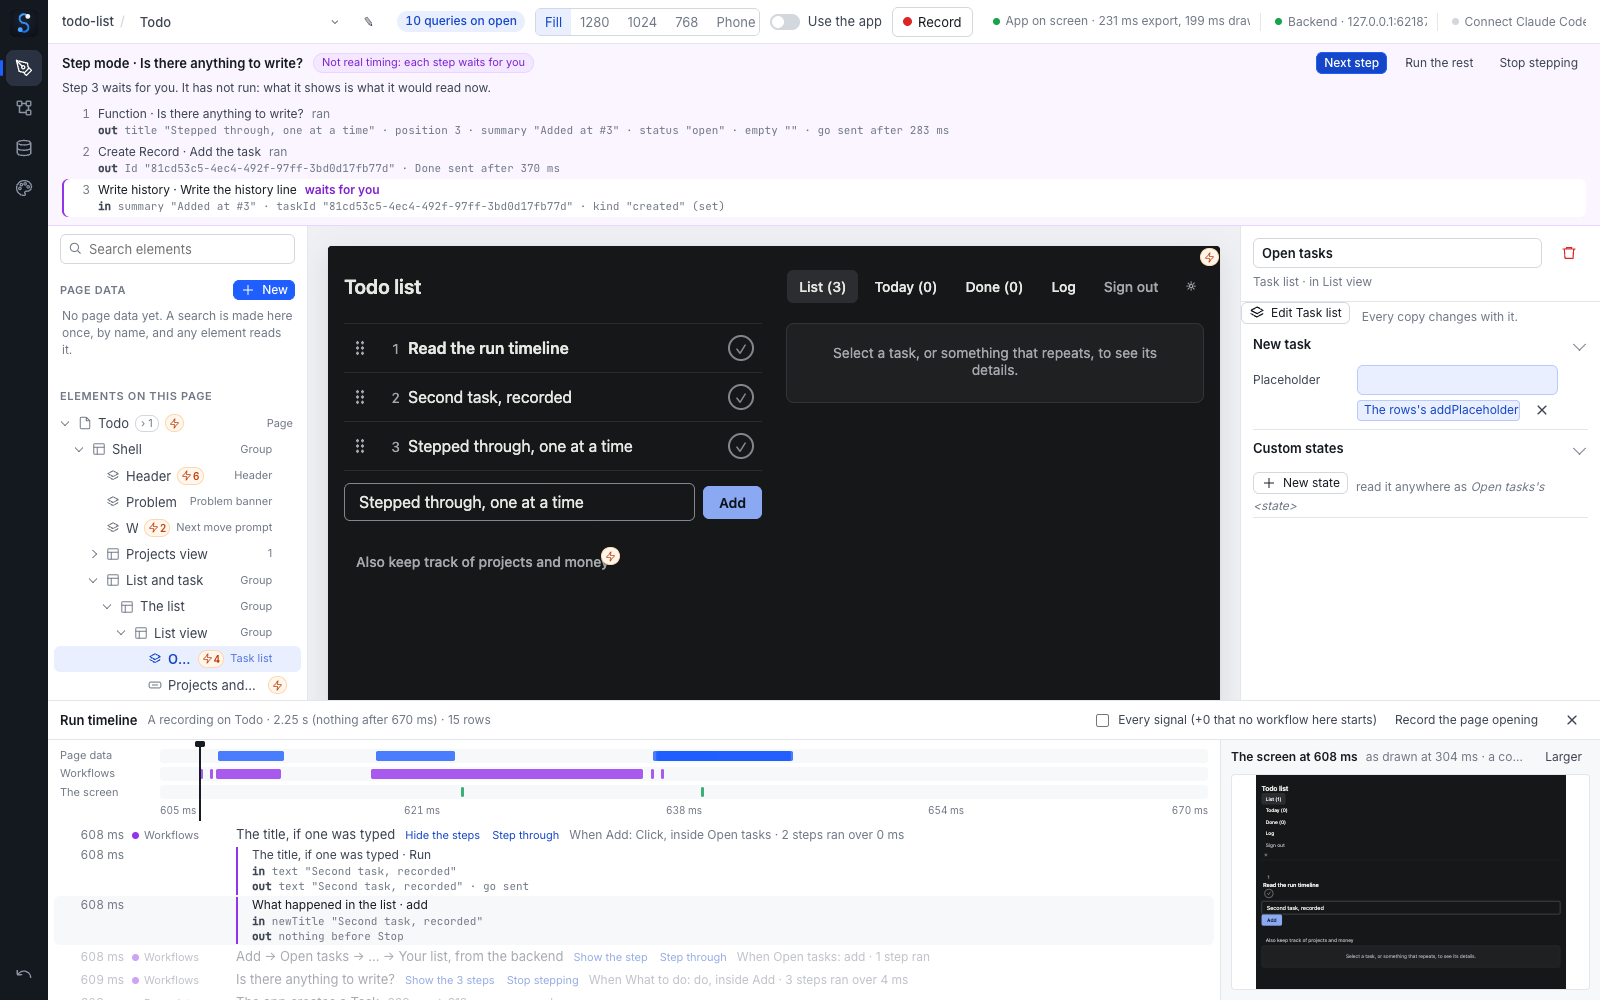
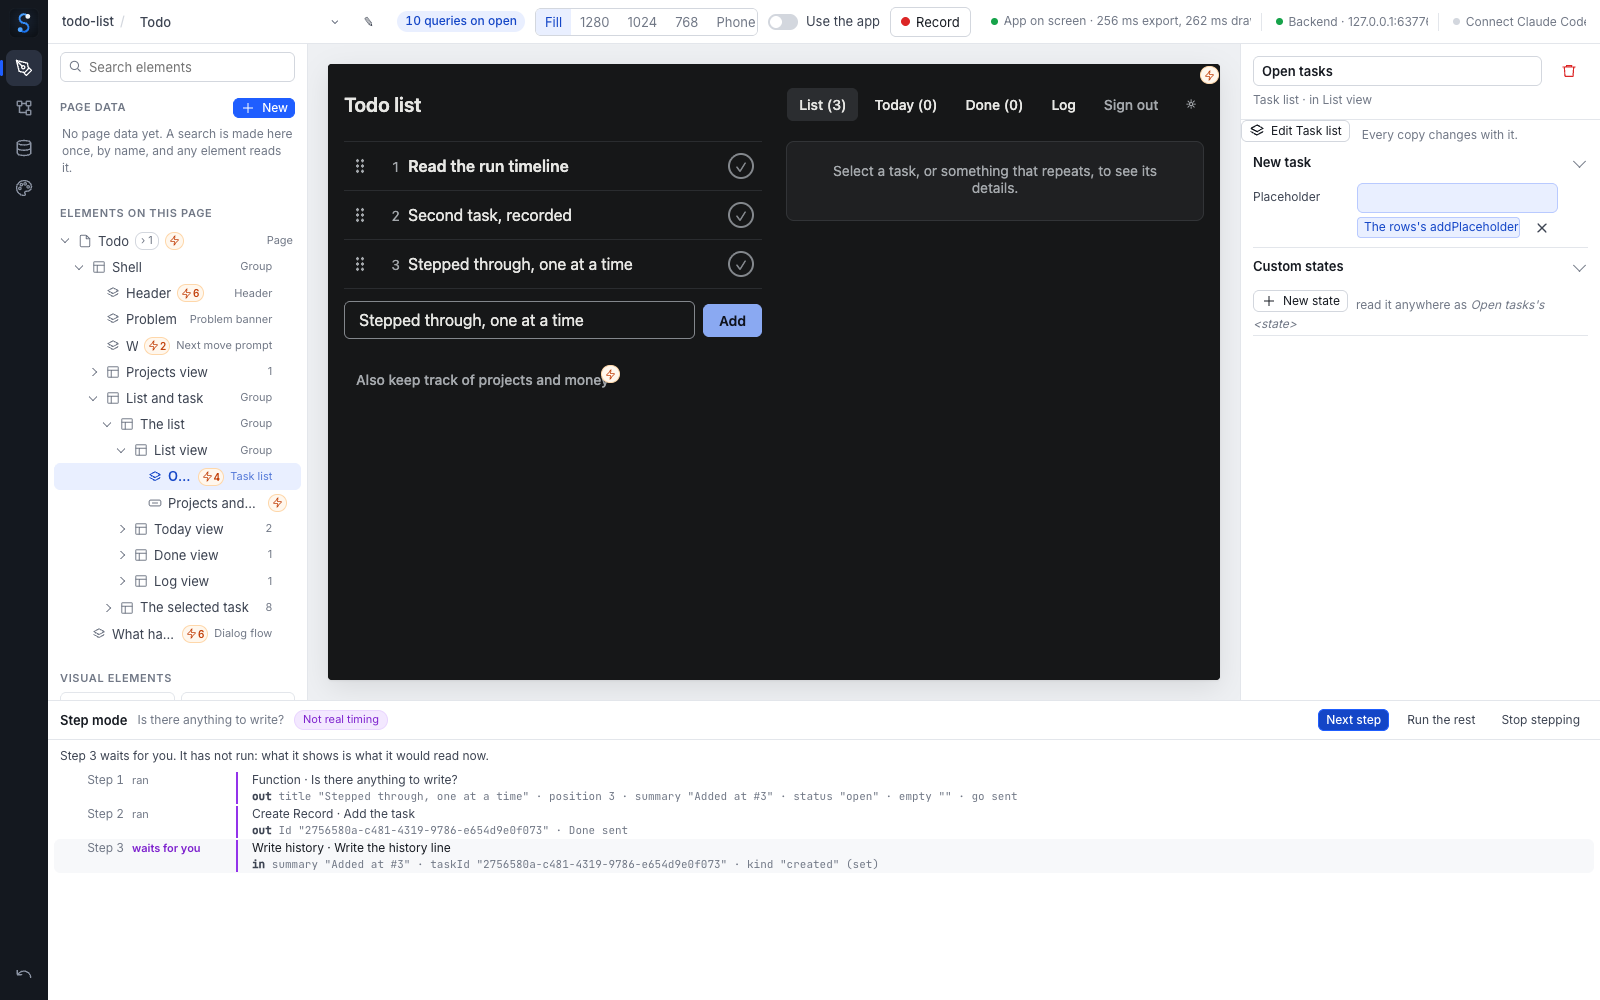
STU-033: step mode lives in the timeline's drawer, not in a bar over the tabs
Richard: "quite busy … taking space away from the bottom part, or they could be merged?" The bar was a
second copy of the drawer's step lines and pushed the app down. While step mode is on, the drawer's header
holds the card, "Not real timing" and the buttons, and its rows are the steps, drawn as a run's steps are.
Stop stepping gives the drawer back to the recording; Record turns step mode off.

check:timeline 45/45, check:editor 170/170, check:app 34/34.

diff --git a/editor/studio.html b/editor/studio.html
@@ -172,21 +172,16 @@
   /* larger: over the tab, above the drawer, the drawer still there to scrub */
   main { position: relative; }
   .tlscreen.big { position: absolute; left: 0; right: 0; top: 0; bottom: 300px; width: auto; z-index: 30; border: 0; border-bottom: 1px solid var(--line); box-shadow: var(--shadow); }
-  /* ---- STU-033: step mode, a bar over every tab while one card pauses before each step ---- */
-  #stepper { flex: none; background: #faf5ff; border-bottom: 1px solid #e9d5ff; padding: 8px 14px; display: grid; gap: 6px; max-height: 240px; overflow: auto; }
-  #stepper[hidden] { display: none; }
-  #stepper .sthead { display: flex; align-items: center; gap: 10px; flex-wrap: wrap; }
-  #stepper .sthead h4 { margin: 0; font-size: 13px; font-weight: 600; }
-  #stepper .sthead .tag { font-size: 11px; color: #7e22ce; background: #f3e8ff; border: 1px solid #e9d5ff; border-radius: 10px; padding: 1px 8px; white-space: nowrap; }
-  #stepper .sthead .grow { flex: 1; }
-  #stepper .stnote { color: var(--ink-2); font-size: 12px; }
-  #stepper .ststep { display: grid; grid-template-columns: 22px 1fr; gap: 8px; align-items: baseline; font-size: 12px; color: var(--ink-2); padding: 3px 6px; border-radius: var(--r); }
-  #stepper .ststep .n { color: var(--muted); text-align: right; font-variant-numeric: tabular-nums; }
-  #stepper .ststep.held { background: var(--panel); box-shadow: inset 2px 0 0 var(--lane-workflow); color: var(--ink); }
-  #stepper .ststep .state { color: var(--muted); margin-left: 8px; }
-  #stepper .ststep.held .state { color: #7e22ce; font-weight: 600; }
-  #stepper .ststep .io { display: block; color: var(--muted); font-family: var(--mono); font-size: 11px; white-space: pre-wrap; word-break: break-word; }
-  #stepper .ststep .io b { font-weight: 600; color: var(--ink-2); }
+  /* ---- STU-033: step mode, in the timeline's drawer: its header holds the card and the buttons, its rows the steps ---- */
+  #sthead .tag { font-size: 11px; color: #7e22ce; background: #f3e8ff; border: 1px solid #e9d5ff; border-radius: 10px; padding: 1px 8px; white-space: nowrap; flex: none; }
+  #sthead button { flex: none; }
+  #stepper { overflow: auto; min-height: 0; padding: 6px 6px 10px; }
+  #stepper[hidden], #sthead[hidden], #tlhead[hidden], #tlbody[hidden] { display: none; }
+  #stepper .stnote { color: var(--ink-2); font-size: 12px; padding: 2px 6px 6px; }
+  #stepper .tlstep { cursor: default; }
+  #stepper .tlstep .state { font-size: 11px; color: var(--muted); white-space: nowrap; }
+  #stepper .tlstep.held { background: var(--panel-2); color: var(--ink); }
+  #stepper .tlstep.held .state { color: #7e22ce; font-weight: 600; }
   section[hidden] { display: none; }
   aside { background: var(--panel); border-right: 1px solid var(--line); overflow: auto; display: flex; flex-direction: column; min-height: 0; }
   aside.right { border-right: 0; border-left: 1px solid var(--line); }
@@ -596,12 +591,6 @@
   </header>
 
   <main>
-    <section id="stepper" aria-label="Step mode" hidden>
-      <div class="sthead"><h4 id="sttitle">Step mode</h4><span class="tag" title="The app does not wait between steps when it runs for real; here each step waits for you, so values that would have come later are already there">Not real timing: each step waits for you</span><span class="grow"></span>
-        <button class="primary tiny" id="stnext" title="Let this step run, and pause before the next one">Next step</button><button class="quiet tiny" id="strest" title="Let this step and the rest of this run go without pausing; the next run pauses again">Run the rest</button><button class="quiet tiny" id="ststop" title="Turn step mode off; a step waiting runs now">Stop stepping</button></div>
-      <div class="stnote" id="stnote"></div>
-      <div id="ststeps"></div>
-    </section>
     <section class="tab" id="design">
       <aside>
         <div class="search"><svg class="i"><use href="#i-search"/></svg><input type="text" id="treesearch" placeholder="Search elements"></div>
@@ -659,13 +648,17 @@
     </section>
 
     <section id="timeline" aria-label="Run timeline" hidden>
-      <div class="tlhead">
+      <div class="tlhead" id="sthead" hidden>
+        <h4>Step mode</h4><span class="note" id="sttitle"></span><span class="tag" title="The app does not wait between steps when it runs for real; here each step waits for you, so values that would have come later are already there">Not real timing</span><span class="grow"></span>
+        <button class="primary tiny" id="stnext" title="Let this step run, and pause before the next one">Next step</button><button class="quiet tiny" id="strest" title="Let this step and the rest of this run go without pausing; the next run pauses again">Run the rest</button><button class="quiet tiny" id="ststop" title="Turn step mode off; a step waiting runs now, and the drawer shows the recording again">Stop stepping</button>
+      </div>
+      <div class="tlhead" id="tlhead">
         <h4>Run timeline</h4><span class="note" id="tlnote"></span><span class="grow"></span>
         <label id="tlall-l" hidden><input type="checkbox" id="tlall"><span id="tlall-t">Every signal</span></label>
         <button class="quiet tiny" id="tlopen" title="Open a fresh copy of the app and record from its first millisecond">Record the page opening</button>
         <button class="quiet tiny" id="tlclose" title="Close the timeline (the recording is kept)" aria-label="Close the timeline"><svg class="i"><use href="#i-x"/></svg></button>
       </div>
-      <div class="tlbody">
+      <div class="tlbody" id="tlbody">
         <div class="tlmain">
           <div class="tlaxis" id="tlaxis" tabindex="0" aria-label="Scrub through the recording: drag, or use the arrow keys to go from one row to the next"></div>
           <div class="tlrows" id="tlrows"></div>
@@ -675,6 +668,7 @@
           <div class="tlsbox" id="tlsbox"><iframe id="tlsframe" sandbox="allow-same-origin" title="The app's screen at the playhead, as it was" tabindex="-1"></iframe><div class="none" id="tlsnone" hidden></div></div>
         </div>
       </div>
+      <div id="stepper" aria-label="Step mode" hidden><div class="stnote" id="stnote"></div><div id="ststeps"></div></div>
     </section>
   </main>
 </div>
@@ -3712,6 +3706,7 @@ function renderRecButton() {
 }
 function startRecording({ fromOpen = false } = {}) {
   if (rec) return;
+  if (stepper) { disarmStepper({ quiet: true }); toast('Step mode is off: a recording is the app in real time'); }
   tlOpen = true;
   if (fromOpen) { rec = { pendingOpen: true }; renderRecButton(); renderTimeline(); rebuild(0); return; }
   if (!preview.frame) return toast('The app is not on screen, so there is nothing to record.');
@@ -3851,6 +3846,9 @@ function renderTimeline() {
   box.hidden = !tlOpen; document.body.classList.toggle('tl', tlOpen);
   setTimeout(draw, 0); // the frame's size changed with the drawer
   if (!tlOpen) return;
+  const stepping = !!stepper;
+  $('sthead').hidden = !stepping; $('stepper').hidden = !stepping; $('tlhead').hidden = stepping; $('tlbody').hidden = stepping;
+  if (stepping) return renderStepper();
   const axis = $('tlaxis'), list = $('tlrows'); axis.innerHTML = ''; list.innerHTML = '';
   $('tlopen').disabled = !!rec?.pendingOpen;
   tlRefs = null; $('tlscreen').hidden = true;
@@ -4008,7 +4006,7 @@ addEventListener('resize', () => { if (recording?.shots && tlOpen) fitShot(); })
 
 /* ================= STU-033: step mode =================
    One card's workflow pauses before each step the next time it runs in the app (./stepper.mjs holds the signal in the
-   app's frame). The bar over every tab says which step waits and what it will read, the values the trace saw arrive
+   app's frame). While it is on, the timeline's drawer is step mode: which step waits and what it will read, the values the trace saw arrive
    at it so far; Next lets it run. A teaching aid, labelled as one: in the app as it runs nothing waits. */
 let stepper = null; // { card, naming, rule, run, steps: [{ n, signal, release, state: 'held' | 'ran' | 'free' }], took, note }
 const STEP_OWNER = 'nodegx-studio-step';
@@ -4021,16 +4019,15 @@ function armStepper(card, { use = false } = {}) {
     if (tab !== 'design') switchTab('design');
     if (!$('previewmode').checked) { $('previewmode').checked = true; overlay.classList.add('preview'); draw(); }
   }
-  renderStepper(); if (tab === 'workflow') renderWorkflow();
-  if (tlOpen && recording) renderTimeline();
+  tlOpen = true; renderTimeline(); if (tab === 'workflow') renderWorkflow();
 }
 function disarmStepper({ quiet = false } = {}) {
   const s = stepper; if (!s) return;
   stepper = null;
   for (const st of s.steps) if (st.state === 'held') { st.state = 'ran'; st.release(); } // a step left waiting runs now, as it would have
   try { const w = s.frame; if (w) { w.__studioStep = null; if (s.took) w.Noodl.Navigation._noodlRuntime.context.releaseTraceOwner(STEP_OWNER); } } catch { /* the frame is gone */ }
-  renderStepper(); if (tab === 'workflow') renderWorkflow();
-  if (tlOpen && recording) renderTimeline();
+  window.__ob.stepper = null;
+  renderTimeline(); if (tab === 'workflow') renderWorkflow();
   if (!quiet) toast('Step mode is off');
 }
 /** Step mode goes on in the app's frame (again after a rebuild: the steps held in the old copy went with it). */
@@ -4087,13 +4084,14 @@ function stepThrough(r) {
     onclick: (e) => { e.stopPropagation(); on ? disarmStepper() : armStepper({ ...card, page: recording.page }); } }, on ? 'Stop stepping' : 'Step through');
 }
 function renderStepper() {
-  const bar = $('stepper'), s = stepper;
-  bar.hidden = !s; window.__ob.stepper = s ? { card: s.card.name, steps: s.steps.map((x) => ({ n: x.n, node: x.signal.toNode, state: x.state })) } : null;
-  setTimeout(draw, 0); // the app moved down or up with the bar
+  const s = stepper;
+  window.__ob.stepper = s ? { card: s.card.name, steps: s.steps.map((x) => ({ n: x.n, node: x.signal.toNode, state: x.state })) } : null;
   if (!s) return;
+  // a step that waits is never out of sight: the drawer opens on it, even if it was closed
+  if (!tlOpen || $('stepper').hidden) { tlOpen = true; return renderTimeline(); }
   const { label, nodeOf, settings } = s.naming;
   const held = s.steps.find((x) => x.state === 'held');
-  $('sttitle').textContent = `Step mode · ${s.card.name}`;
+  $('sttitle').textContent = s.card.name;
   $('stnext').disabled = !held; $('strest').disabled = !held;
   let trace = [];
   try { trace = s.frame.Noodl.Navigation._noodlRuntime.context.getTraceEvents(0) || []; } catch { /* the frame is gone */ }
@@ -4110,10 +4108,10 @@ function renderStepper() {
     const name = `${n ? typeName(n.type) : label(id)}${n?.label ? ` · ${n.label}` : ''}`;
     // waiting: every value into it so far, which is what it reads when it runs; ran: what it sent from its signal on
     const io = st.state === 'held' ? values({ ...st.signal, seq: Infinity }, settings(id)) : values(st.signal, settings(id));
-    list.append(h('div', { class: `ststep ${st.state}`, 'data-n': st.n, 'data-node': id, 'data-state': st.state },
-      h('span', { class: 'n' }, String(st.n)),
-      h('div', {}, name, h('span', { class: 'state' }, st.state === 'held' ? 'waits for you' : st.state === 'free' ? 'ran without a pause' : 'ran'),
-        ...stepIo({ node: id, ...io }, { nodeOf, only: st.state === 'held' ? 'in' : 'out', none: 'nothing sent yet', times: false }))));
+    // the drawer's own step lines (STU-032), the step's number where a recording has its time
+    list.append(h('div', { class: `tlstep ${st.state}`, 'data-n': st.n, 'data-node': id, 'data-state': st.state },
+      h('span', { class: 't' }, `Step ${st.n}`), h('span', { class: 'state' }, st.state === 'held' ? 'waits for you' : st.state === 'free' ? 'ran, no pause' : 'ran'),
+      h('div', { class: 'what' }, name, ...stepIo({ node: id, ...io }, { nodeOf, only: st.state === 'held' ? 'in' : 'out', none: 'nothing sent yet', times: false }))));
   }
 }
 

diff --git a/docs/SCOPE.md b/docs/SCOPE.md
@@ -995,8 +995,13 @@ with the Add task command stepped through: steps 1 and 2 ran, step 3 waits holdi
 - **Two ways in.** A card in the Workflow tab has **Step through** (beside Rename); it goes to Design with "Use the
   app" on. A recorded run's row in the timeline has **Step through** too, and that is the only way in for a card in
   a component with no element of its own (a command such as Add task, which the page picker does not list).
-- **The bar.** While step mode is on, a bar over every tab names the card, says **"Not real timing: each step waits
-  for you"**, and has **Next step**, **Run the rest** and **Stop stepping**. The next time the card runs in the app,
+- **In the timeline's drawer.** While step mode is on, the drawer under every tab is step mode: its header names the
+  card, says **"Not real timing"**, and has **Next step**, **Run the rest** and **Stop stepping**; its rows are the
+  steps, drawn as the timeline draws a run's steps (the step's number where a recording has its time). The first
+  build put this in a bar over the tabs: Richard, seeing it, *"quite busy … taking space away from the bottom part, or
+  they could be merged?"* It was a second copy of the drawer's step lines, and it pushed the app down. Stop stepping
+  gives the drawer back to the recording; Record turns step mode off (a recording is the app in real time); a step
+  that waits opens the drawer if it was closed. The next time the card runs in the app,
   each step waits before it runs: the bar lists the steps of the run, each one that ran with its **out** (what it
   sent), and the one waiting with its **in**: every value that has come into it so far, which is what it reads when
   it is let go, and the settings in the files where nothing is wired, marked "(set)". Run the rest lets the run go
@@ -1024,11 +1029,11 @@ Gate: `npm run check:timeline` 45/45 (33 + 12). On fixtures: the card's event is
 in the run is step 2, a signal into a step from outside the run is not held, a value from a step is not a step, Run
 the rest lets the run through still counted and the next run pauses from step 1; a card started through its
 component's inputs is a run with its steps, the `true` and `false` not among their inputs. On the todo template, with
-step mode armed from the second recording's Add task row: the bar names the card and says it is not real timing; a
+step mode armed from the second recording's Add task row: the drawer turns to it, names the card and says it is not real timing; a
 third task added, step 1 waits showing the typed title and no task is written; Next, step 1 ran and sent the title on
 and step 2 (the record's creation) waits with that title among what it will read, and the app's request log still has
 no write; Next, the log has the one write and step 3 waits holding the new record's id, the id the runtime's trace has
-out of step 2; Run the rest, the task is in the list; Stop stepping takes the bar away, and the next task is added
+out of step 2; Run the rest, the task is in the list; Stop stepping gives the drawer back to the recording, and the next task is added
 the ordinary way. The Workflow tab's Step through on the Header's Sign out card arms it and goes to the app, Use the
 app on. Mutants: the signal not held (handed over and also kept) 42/44, measured before the last check was added;
 the `false` not kept behind the `true` 44/45 (the next ordinary Add writes nothing).
